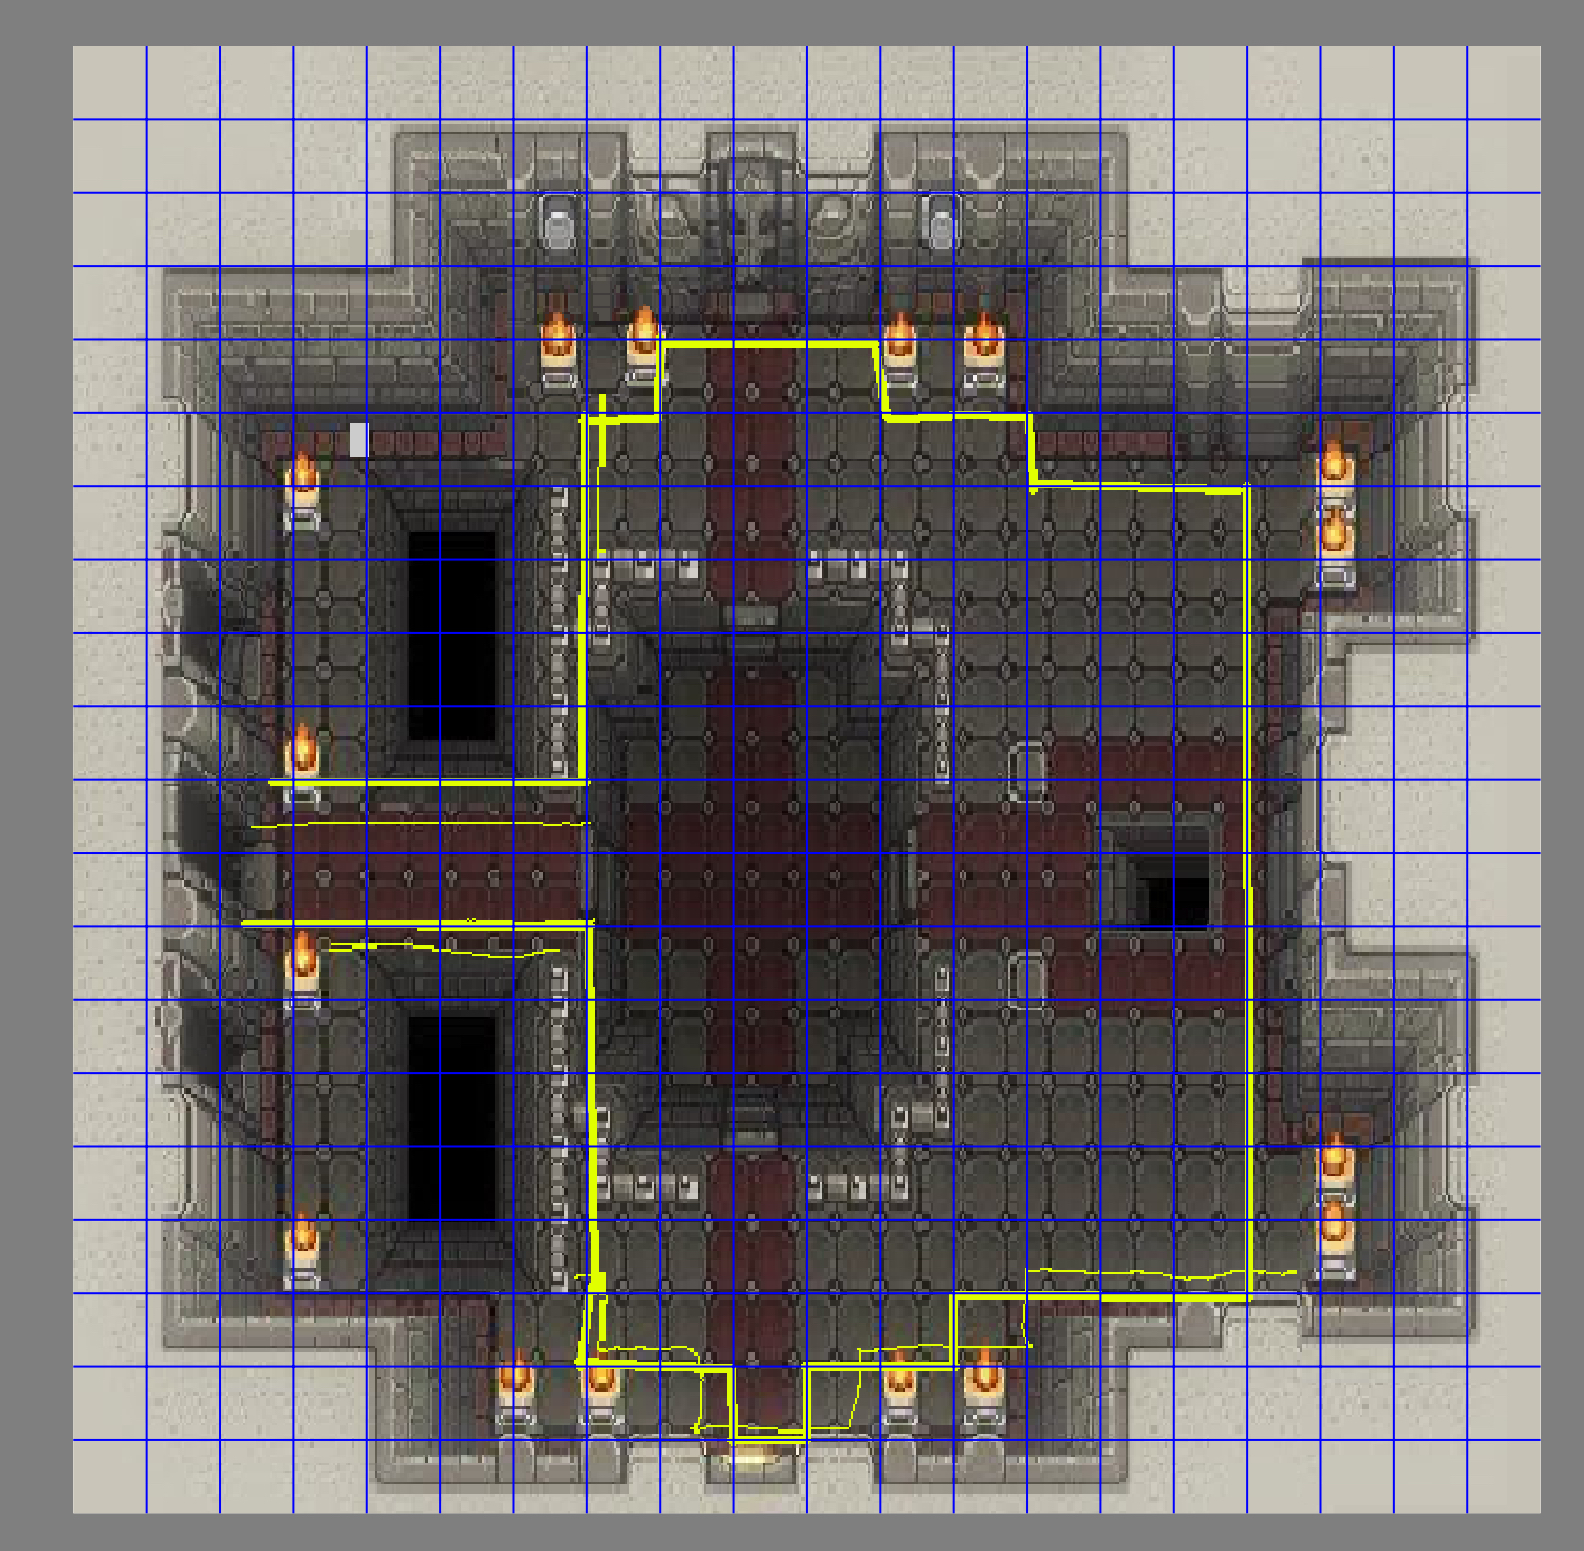
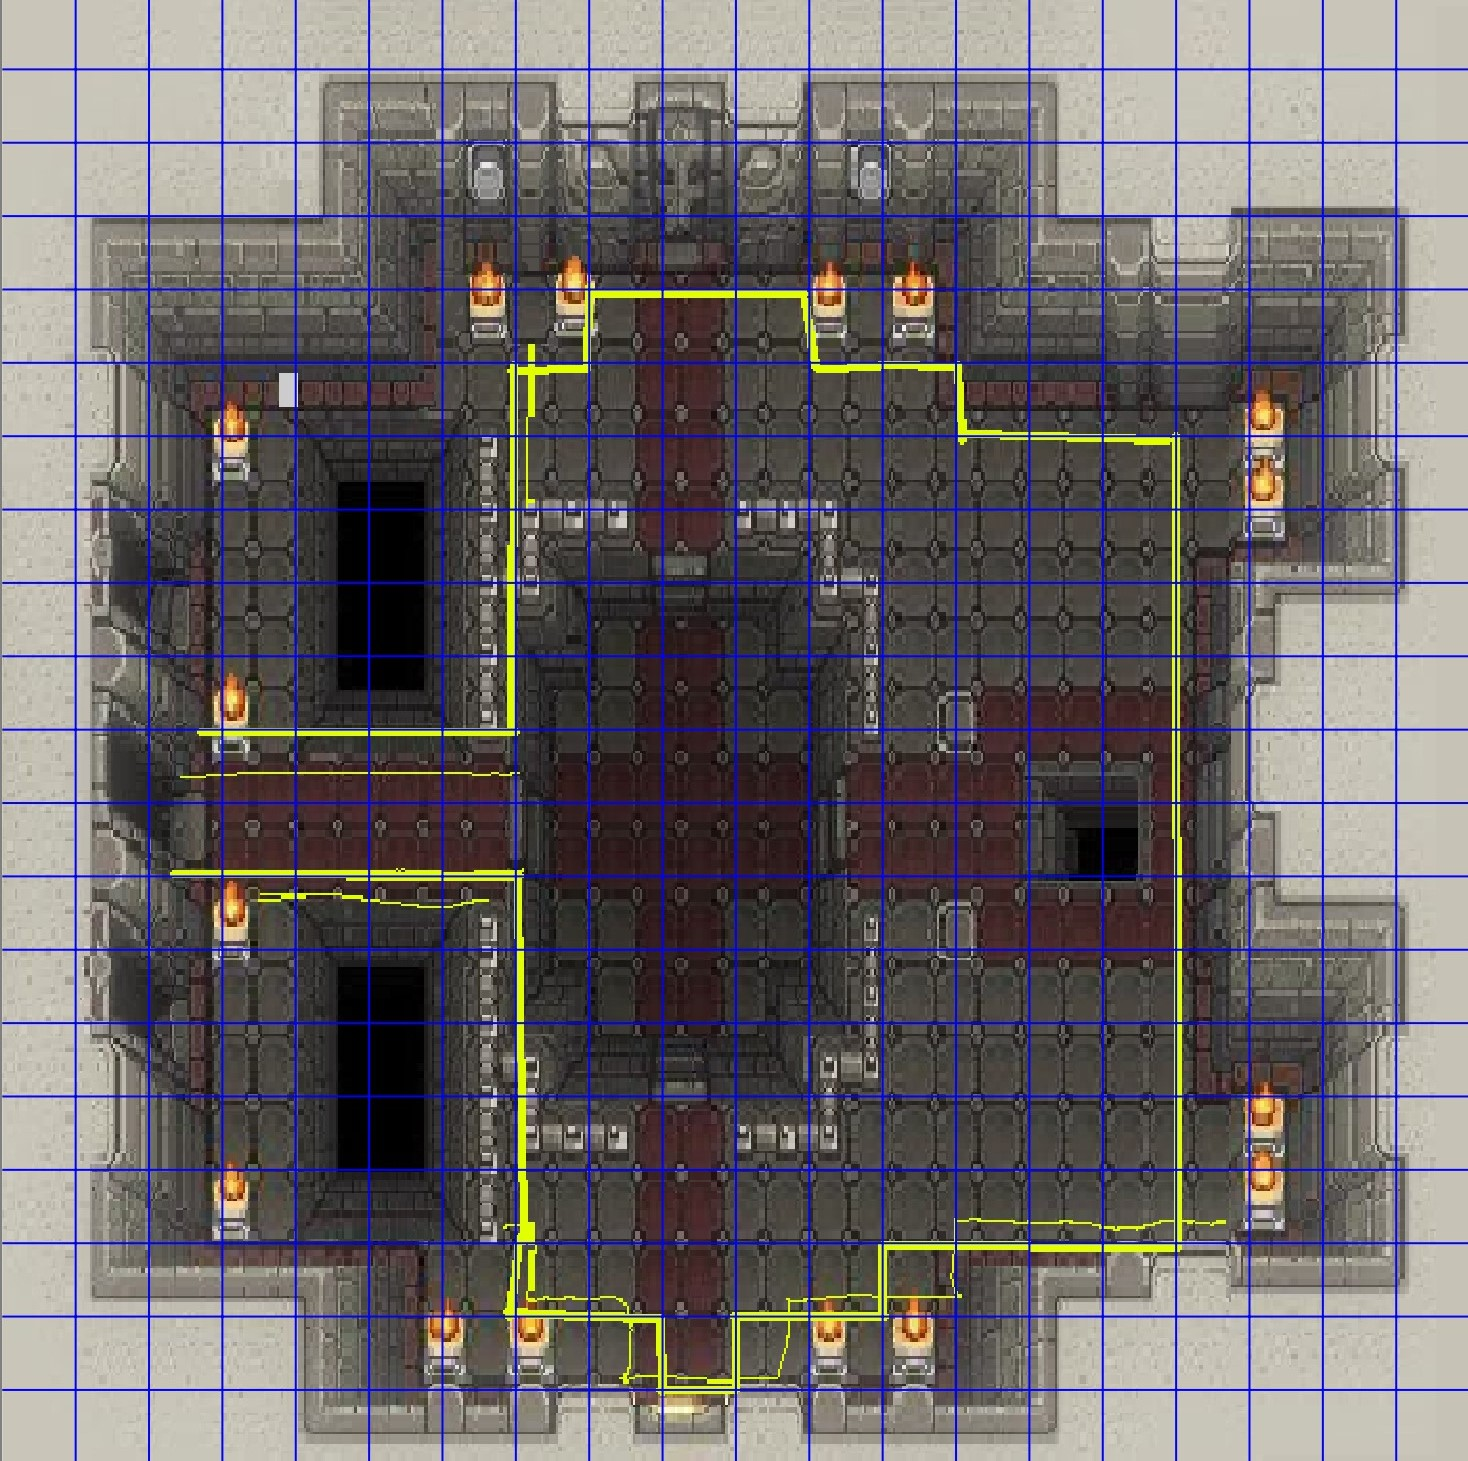
:poop:

diff --git a/src/Steuerung.java b/src/Steuerung.java
@@ -20,9 +20,9 @@ public class Steuerung implements KeyListener {
 
     public Steuerung() {
         zf = new ZeichenFlaeche14();
-        spieler = new Spielfigur(9, 14, 35, 35, 2);
-        npc = new Npc(200, 200, 70, 70, 3);
         m = new Map();
+        spieler = new Spielfigur(8, 11, 35, 35, 2);
+        npc = new Npc(200, 200, 70, 70, 3);
         aktuellesLevel = m.hauptraum;
         aktuellesLevelInt = 1;
         aktuellesLevelImg = m.getHauptraumImg();
@@ -53,8 +53,6 @@ public class Steuerung implements KeyListener {
                     spieler.setX(m.getHauptraumStartX());
                     spieler.setY(m.getHauptraumStartY());
                     naechstesLevel = 2;
-                    m.setDruckplatteStartX(9);
-                    m.setDruckplatteStartY(15);
                     break;
                 case 2:
                     aktuellesLevel = m.druckplatte;

diff --git a/src/Spielfigur.java b/src/Spielfigur.java
@@ -8,6 +8,8 @@ import java.io.IOException;
 public class Spielfigur {
     private int x;
     private int y;
+    private int neachsteX;
+    private int neachsteY;
     private int breite;
     private int hoehe;
     private int id;
@@ -45,6 +47,14 @@ public class Spielfigur {
         return y;
     }
 
+    public int getNeachsteX() {
+        return neachsteX;
+    }
+
+    public int getNeachsteY() {
+        return neachsteY;
+    }
+
     public int getId() {
         return id;
     }
@@ -55,5 +65,13 @@ public class Spielfigur {
 
     public void setY(int y) {
         this.y = y;
+    }
+
+    public void setNeachsteX(int neachsteX) {
+        this.neachsteX = neachsteX;
+    }
+
+    public void setNeachsteY(int neachsteY) {
+        this.neachsteY = neachsteY;
     }
 }

diff --git a/src/Map.java b/src/Map.java
@@ -19,8 +19,8 @@ public class Map {
         } catch (IOException e) {
             System.err.println("Hauptraum konnte nicht geladen werden");
         }
-        hauptraumStartX = 9;
-        hauptraumStartY = 4;
+        hauptraumStartX = 8;
+        hauptraumStartY = 11;
         try {
             druckplattenImg = ImageIO.read(new File("src/img/maps/druckplattenraum.png"));
         } catch (IOException e) {
